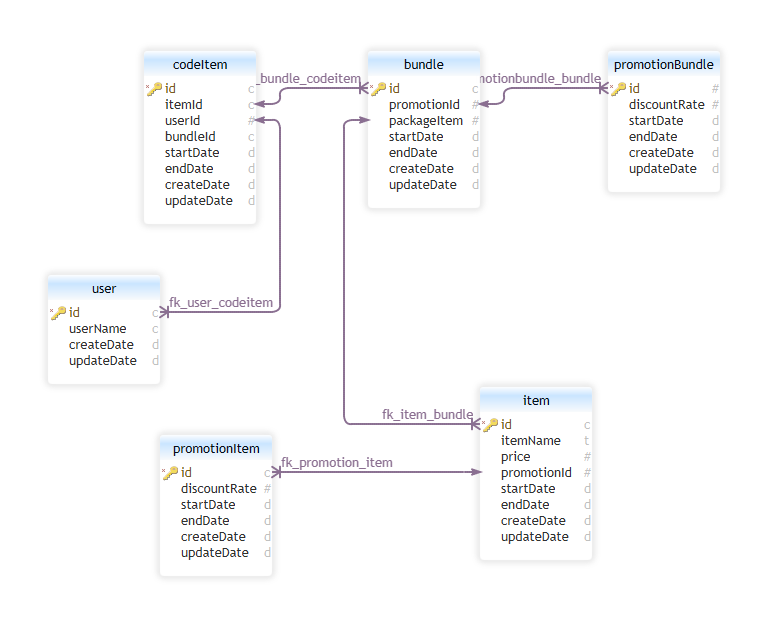
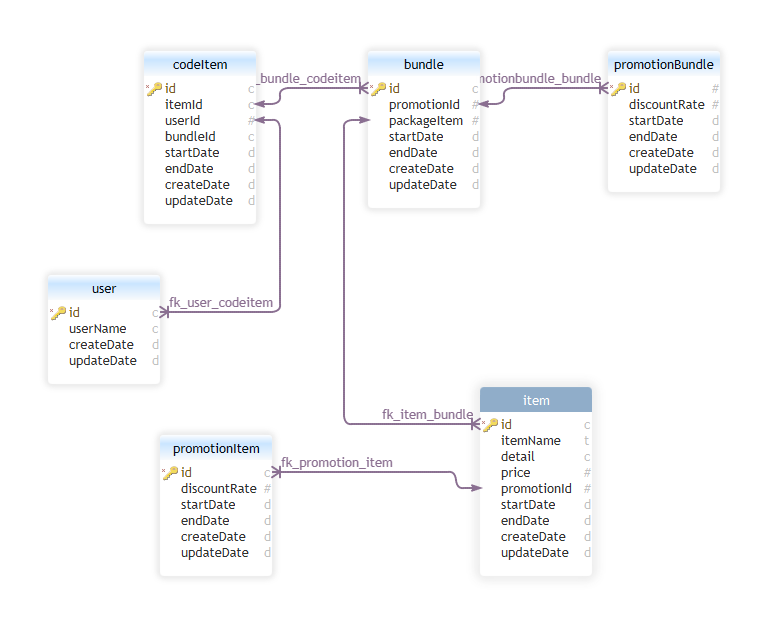
update picture

Changed region(s): [[0.6562, 0.7003, 0.75, 0.9135], [0.625, 0.609, 0.7812, 0.6699], [0.5938, 0.7308, 0.625, 0.7917]]

diff --git a/models/item.js b/models/item.js
@@ -14,8 +14,12 @@ const Item = sequelize.define('item', {
    price: {
       type: Sequelize.INTEGER,
       allowNull: false
-   }
-   ,
+   },
+   detail: {
+      type: Sequelize.STRING,
+      allowNull: false
+
+   },
    startDate: {
       type: Sequelize.DATE,
       allowNull: false

diff --git a/models/bundle.js b/models/bundle.js
@@ -7,9 +7,6 @@ const Bundle = sequelize.define('bundle', {
       primaryKey: true,
       defaultValue: Sequelize.UUIDV4
    },
-   description: {
-      type: Sequelize.STRING
-   },
    price: {
       type: Sequelize.INTEGER,
    }
